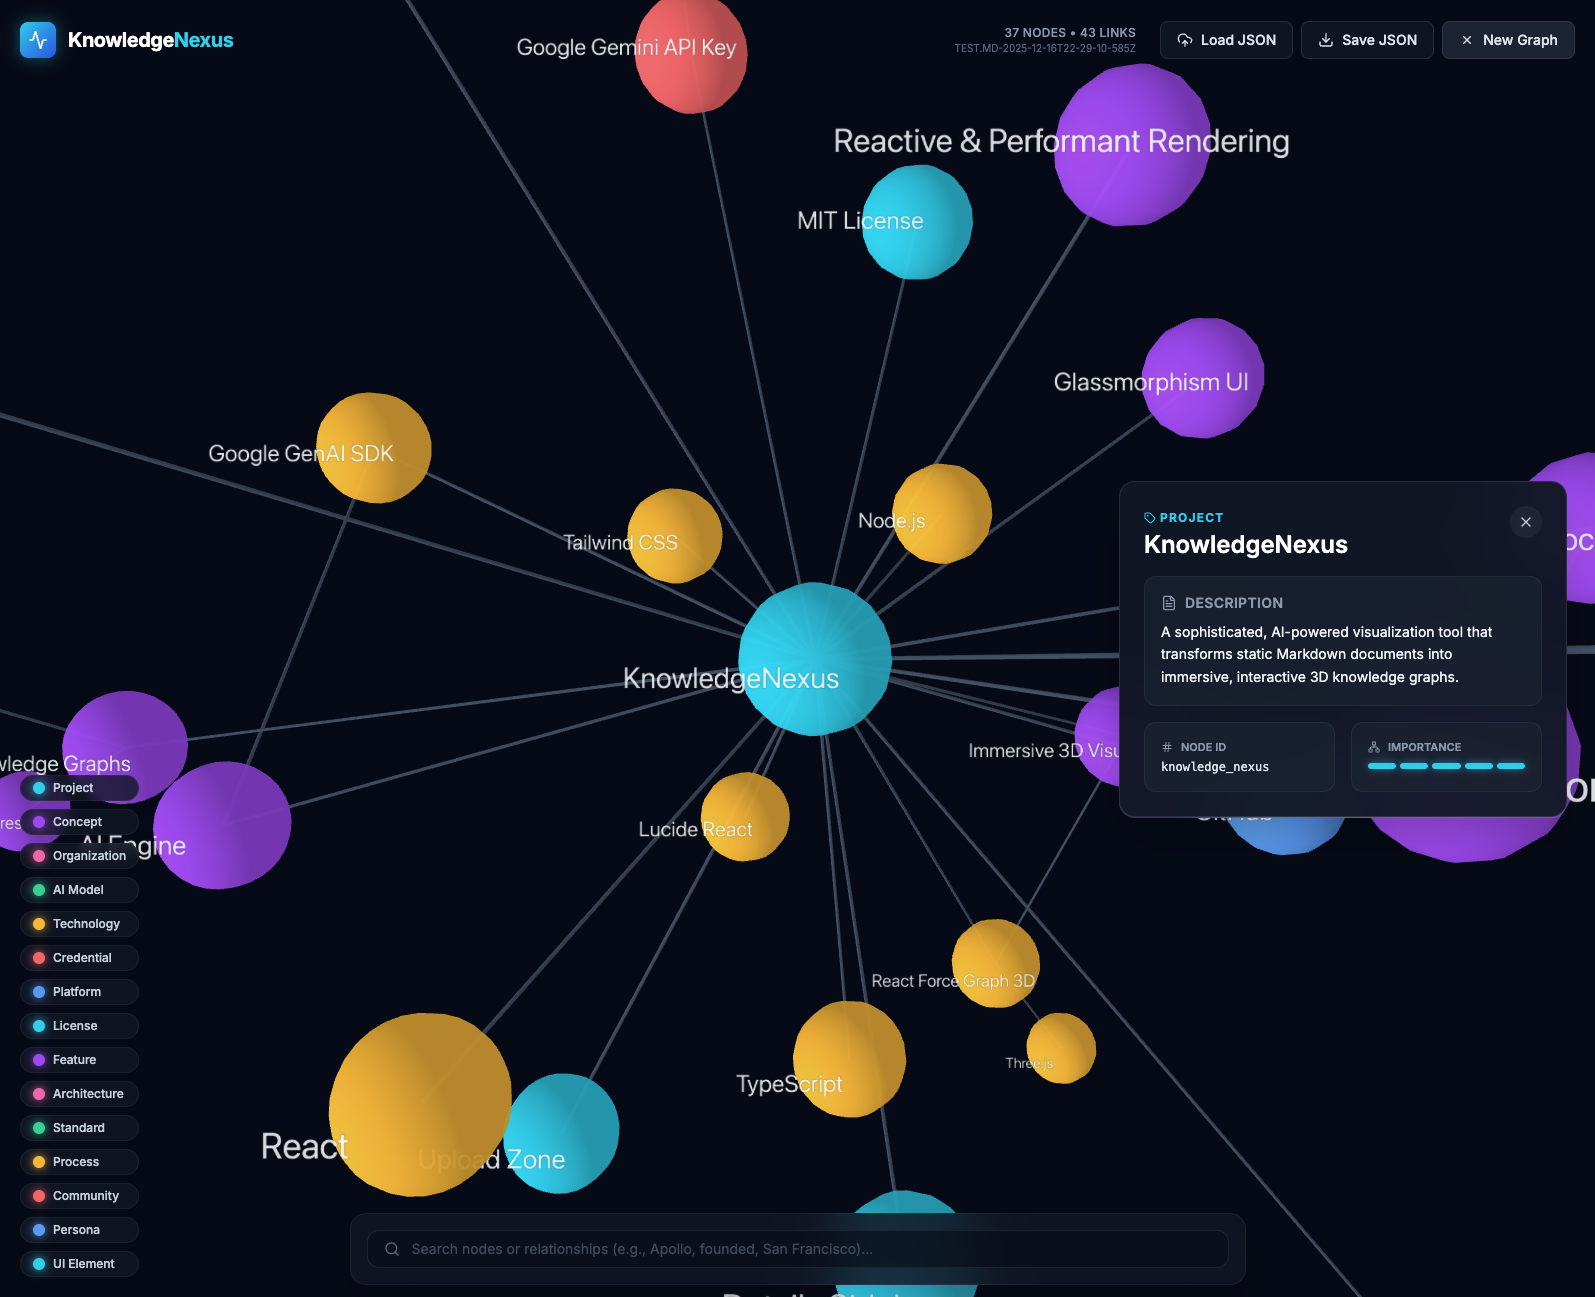
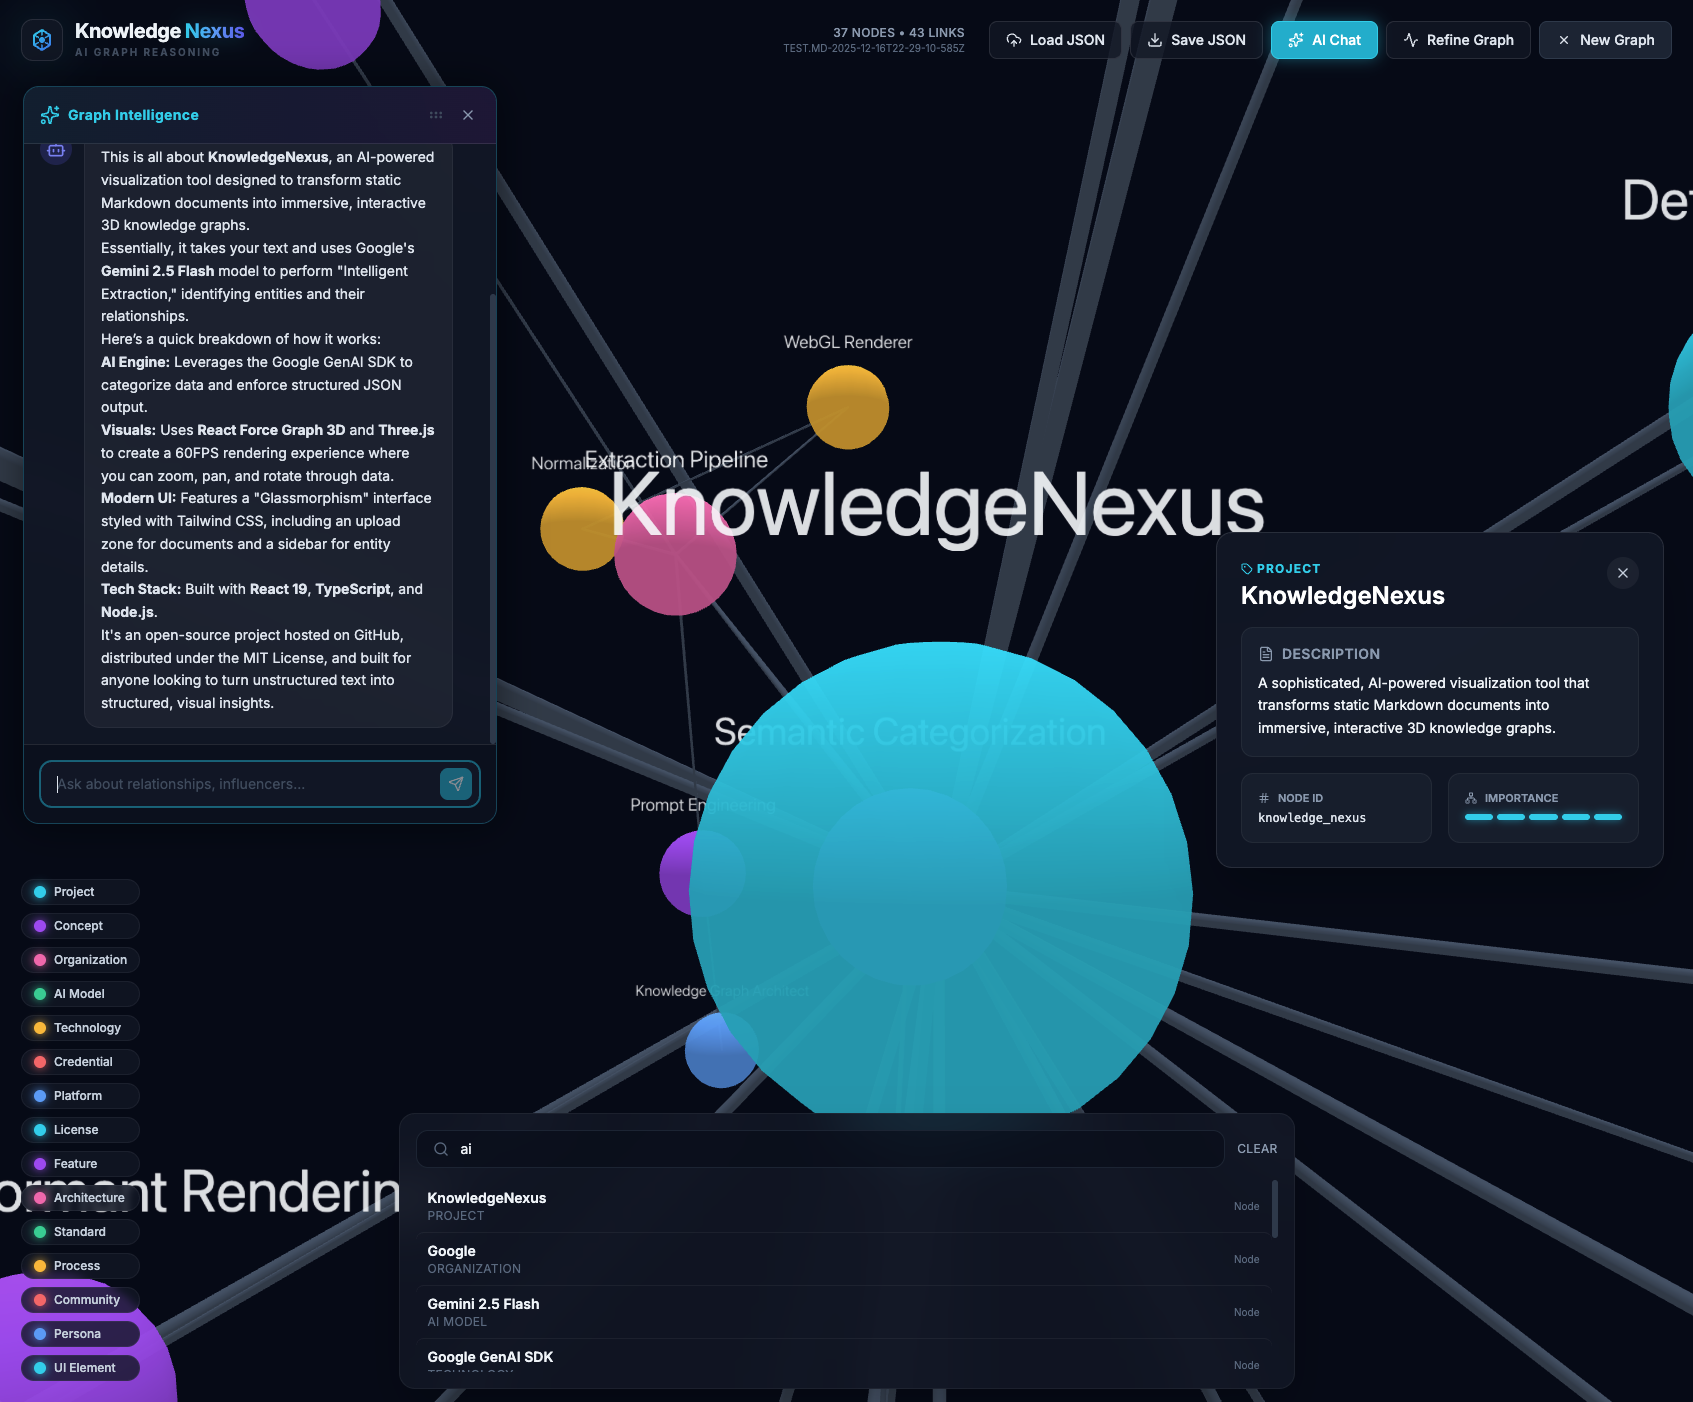
Patches from automated code-review, updated screenshot.

diff --git a/App.tsx b/App.tsx
@@ -175,8 +175,7 @@ const App: React.FC = () => {
     } catch (e) {
       console.error(e);
       triggerToast('error', 'Unable to extract graph from the provided file.');
-      setAppState(AppState.IDLE);
-      setTimeout(() => setAppState(AppState.IDLE), 4000);
+      setAppState(AppState.ERROR);
     }
   };
 
@@ -200,10 +199,17 @@ const App: React.FC = () => {
       after: null,
     });
 
+    let refiningTimeout: ReturnType<typeof setTimeout> | null = null;
+
     try {
       // Transition to refining state shortly after
-      setTimeout(() => {
-        setRefinementModal(prev => ({ ...prev, state: 'REFINING' }));
+      refiningTimeout = setTimeout(() => {
+        setRefinementModal(prev => {
+          if (prev.state === 'PREPARING') {
+            return { ...prev, state: 'REFINING' };
+          }
+          return prev;
+        });
       }, 800);
 
       const result = await GraphExpertSystem.unifyGraph(graphData);
@@ -217,7 +223,15 @@ const App: React.FC = () => {
 
       if (result.addedLinksCount > 0) {
         setGraphData(result.unifiedData);
+        // Issue 4: Node/link counters never update after refinement
+        setStats(prev => prev ? {
+          ...prev,
+          nodeCount: result.unifiedData.nodes.length,
+          linkCount: result.unifiedData.links.length,
+        } : null);
       }
+
+      if (refiningTimeout) clearTimeout(refiningTimeout);
 
       setRefinementModal(prev => ({
         ...prev,
@@ -226,6 +240,7 @@ const App: React.FC = () => {
       }));
 
     } catch (error) {
+      if (refiningTimeout) clearTimeout(refiningTimeout);
       console.error('Refinement failed', error);
       triggerToast('error', 'Failed to refine the graph.');
       setRefinementModal(prev => ({ ...prev, isOpen: false }));
@@ -335,13 +350,32 @@ const App: React.FC = () => {
 
       {/* Navigation Header */}
       <nav className="absolute top-0 left-0 right-0 z-30 p-6 flex justify-between items-center pointer-events-none">
-        <div className="flex items-center space-x-3 pointer-events-auto">
-          <div className="bg-gradient-to-br from-cyan-400 to-blue-600 p-2 rounded-lg shadow-[0_0_15px_rgba(34,211,238,0.4)]">
-            <Activity className="w-5 h-5 text-white" />
+        <div className="flex items-center space-x-3 pointer-events-auto group">
+          <div className="relative">
+            <div className="absolute inset-0 bg-cyan-500/20 blur-xl rounded-full group-hover:bg-cyan-500/40 transition-all duration-500" />
+            <div className="relative bg-slate-900/80 backdrop-blur-xl border border-white/10 p-2 rounded-xl shadow-2xl transition-transform duration-500 group-hover:scale-110 group-hover:rotate-3">
+              <svg width="24" height="24" viewBox="0 0 24 24" fill="none" xmlns="http://www.w3.org/2000/svg" className="w-6 h-6">
+                <path d="M12 2L4 7V17L12 22L20 17V7L12 2Z" stroke="url(#logo-grad)" strokeWidth="2" strokeLinecap="round" strokeLinejoin="round" />
+                <circle cx="12" cy="12" r="3" fill="url(#logo-grad)" />
+                <path d="M12 2V7M12 22V17M4 7L8.5 9.5M20 7L15.5 9.5M4 17L8.5 14.5M20 17L15.5 14.5" stroke="url(#logo-grad)" strokeWidth="1.5" strokeLinecap="round" />
+                <defs>
+                  <linearGradient id="logo-grad" x1="4" y1="2" x2="20" y2="22" gradientUnits="userSpaceOnUse">
+                    <stop stopColor="#22d3ee" />
+                    <stop offset="1" stopColor="#3b82f6" />
+                  </linearGradient>
+                </defs>
+              </svg>
+            </div>
           </div>
-          <h1 className="text-xl font-bold tracking-tight text-white">
-            Knowledge<span className="text-cyan-400">Nexus</span>
-          </h1>
+          <div className="flex flex-col">
+            <h1 className="text-xl font-black tracking-tight flex items-center leading-none">
+              <span className="text-slate-100">Knowledge</span>
+              <span className="bg-clip-text text-transparent bg-gradient-to-r from-cyan-400 via-blue-400 to-indigo-500 ml-1 drop-shadow-[0_0_10px_rgba(34,211,238,0.3)]">Nexus</span>
+            </h1>
+            <span className="text-[10px] text-slate-500 font-bold uppercase tracking-[0.2em] mt-1 opacity-70 group-hover:opacity-100 group-hover:text-cyan-400 transition-all duration-300">
+              AI Graph Reasoning
+            </span>
+          </div>
         </div>
 
         <div className="flex items-center space-x-4 pointer-events-auto">

diff --git a/services/graphOptimizerService.ts b/services/graphOptimizerService.ts
@@ -108,24 +108,39 @@ export class GraphExpertSystem {
             `${getNodeId(l.source)}|${getNodeId(l.target)}|${l.relationship}`
         ));
 
+        const nodeIds = new Set(data.nodes.map(n => n.id));
         const finalLinks = [...data.links];
         let addedCount = 0;
 
         newLinks.forEach(link => {
-            const key = `${link.source}|${link.target}|${link.relationship}`;
+            const sourceId = getNodeId(link.source);
+            const targetId = getNodeId(link.target);
+
+            // Issue 6: AI-proposed links aren’t validated against existing nodes
+            if (!nodeIds.has(sourceId) || !nodeIds.has(targetId)) {
+                console.warn(`Gemini proposed an invalid link: ${sourceId} -> ${targetId}. Skipping.`);
+                return;
+            }
+
+            const key = `${sourceId}|${targetId}|${link.relationship}`;
             if (!existingLinkKeys.has(key)) {
                 finalLinks.push(link);
                 addedCount++;
             }
         });
 
+        const unifiedData = {
+            ...data,
+            links: finalLinks
+        };
+
+        // Issue 5: Cluster totals reported post-refinement are stale
+        const finalClusters = this.findDisconnectedComponents(unifiedData);
+
         return {
-            unifiedData: {
-                ...data,
-                links: finalLinks
-            },
+            unifiedData,
             addedLinksCount: addedCount,
-            clustersCount: clusters.length,
+            clustersCount: finalClusters.length,
             validation
         };
     }

diff --git a/services/geminiService.ts b/services/geminiService.ts
@@ -1,5 +1,6 @@
 import { GoogleGenAI, Type } from "@google/genai";
 import { GraphData, GraphLink } from "../types";
+import { getNodeId } from "../utils/graph";
 
 const ai = new GoogleGenAI({ apiKey: process.env.API_KEY });
 
@@ -103,7 +104,7 @@ export const chatWithGraph = async (message: string, graphData: GraphData): Prom
   ).join('\n');
 
   const linksContext = graphData.links.map(l =>
-    `${l.source}->${l.target}|${l.relationship}`
+    `${getNodeId(l.source)}->${getNodeId(l.target)}|${l.relationship}`
   ).join('\n');
 
   // We move the heavyweight context to the user message to avoid system instruction limits

diff --git a/AGENTS.md b/AGENTS.md
@@ -1,23 +1,49 @@
 # Repository Guidelines
 
-## Project Structure & Module Organization
-The app is a Vite React + TypeScript UI rooted at `index.tsx`, which mounts `App.tsx`. Shared widgets (UploadZone, Sidebar, Graph3D, AnalysisChat) live in `components/`, while API helpers stay under `services/` such as `services/geminiService.ts` and the `services/graphOptimizerService.ts`. Update `types.ts` before touching UI state, and keep entry/config files (`index.html`, `vite.config.ts`, `tsconfig.json`, `metadata.json`) minimal. Add new modules next to their peers (e.g., `components/InsightsPanel.tsx`) and keep related assets in the same folder to preserve the flat layout.
+## Architecture & Layout
+- The app is a Vite + React 19 + TypeScript UI. `index.tsx` mounts `App.tsx`, while `index.html` stays minimal and loads Tailwind via CDN plus an import map. `vite.config.ts` binds the dev server to `http://localhost:3000` (`host: 0.0.0.0`) and injects the Gemini key into `process.env`.
+- `App.tsx` orchestrates `AppState` (`IDLE → PARSING → VISUALIZING → ERROR`), toast notifications, search/highlight state, JSON import/export, Graph Expert refinement, and the floating AI chat. Keep new UI derived from `GraphData` + `ExtractionStats` and leave side effects inside hooks.
+- Components live under `components/` and the folder stays flat: `UploadZone`, `Graph3D`, `Sidebar`, `AnalysisChat`, and `RefinementModal`. Add peers beside them (e.g., `components/NewPanel.tsx`) and colocate assets. Services stay under `services/`, shared helpers under `utils/`, and all shared contracts inside `types.ts`.
 
-## Build, Test, and Development Commands
-- `npm install` — installs dependencies once per checkout.
-- `npm run dev` — launches the Vite dev server on `http://localhost:5173` with hot reload.
-- `npm run build` — emits the optimized `dist/` bundle for release validation.
-- `npm run preview` — serves `dist/` locally to spot deployment-only bugs.
-- `npx vitest run --coverage` — run after adding Vitest to block regressions in flows like `extractGraphFromMarkdown`.
+## Component Responsibilities
+- `UploadZone.tsx` accepts `.md/.markdown/.txt`, maintains `dragActive` + `error` state, and funnels file text to `onFileLoaded`. Preserve the validation toast and `isLoading` animations when extending it.
+- `Graph3D.tsx` wraps `react-force-graph-3d`, caches `SpriteText` labels (see `global.d.ts`), zooms new graphs into view, and handles highlight/focus logic via the `highlightedNodeIds`/`highlightedLinkKeys` Sets from `App.tsx`. Dispose SpriteText materials when nodes vanish to avoid GPU leaks.
+- `Sidebar.tsx` renders metadata for the selected node (description, ID, importance meter) and uses pointer-events rules so the rest of the canvas remains interactive.
+- `AnalysisChat.tsx` is a draggable/resizable chat window that streams prompts to `chatWithGraph`. Model replies are rendered with `react-markdown` and must preserve history in `App.tsx` to handle resets and session persistence.
+- `RefinementModal.tsx` mirrors the `GraphExpertSystem` lifecycle (`PREPARING`, `REFINING`, `COMPLETED`) and compares `beforeStats` vs `afterStats`. When closing it, always go through the `refinementModal` state setter so App state stays consistent.
+- `App.tsx` manages file ingestion, calls `extractGraphFromMarkdown`, normalizes data, handles JSON importing via `isGraphDataShape`, runs graph refinement through the expert system, and exports snapshots via `createGraphExportSnapshot`. Keep helper functions like `resetQueryState`, `handleResultSelect`, and `triggerToast` intact whenever you extend flows.
 
-## Coding Style & Naming Conventions
-Embrace TypeScript strictness: type every prop and hook, reuse enums from `types.ts`, and avoid `any`. Components and files use PascalCase (`Graph3D.tsx`), while functions, variables, and state setters use camelCase. Keep JSX readable with two-space indentation and concise utility-class strings, and run Prettier/ESLint locally before submitting.
+## Services & Data Flow
+- `services/geminiService.ts` is the only file that calls Google GenAI. `extractGraphFromMarkdown` sends Markdown, enforces the response schema, maps `importance` → `val`, and biases Gemini toward ≥50 nodes. `chatWithGraph` compresses current nodes/links into context strings for AI Q&A, and `findBridgesBetweenClusters` returns bridging `GraphLink`s as JSON.
+- `services/graphOptimizerService.ts` exports `GraphExpertSystem`, which validates links, finds disconnected clusters via union-find, and merges Gemini-proposed links without duplicating existing edges. Keep it framework-agnostic so it can be unit-tested.
 
-## Testing Guidelines
-Add Vitest with React Testing Library. Store specs as `ComponentName.test.tsx` next to each component or in a local `__tests__/` folder. Snapshot Graph3D and Sidebar, verify `AnalysisChat` persistence and Markdown rendering, mock Gemini responses to verify `services/geminiService.ts`, and add integration smoke tests that assert `App.tsx` transitions through `AppState.IDLE → PARSING → VISUALIZING`. Target ≥80% coverage for services and critical hooks, and run `npx vitest run --coverage` before every PR. Note: Mocking should account for the new `thinking` field in responses if strictly typed.
+## Types, Utilities & Shared Contracts
+- `types.ts` defines `GraphNode`, `GraphLink`, `GraphData`, `AppState`, and `ExtractionStats`. Update it before touching components/services and remember that `GraphLink.source/target` can be `string` or `GraphNode` because `react-force-graph-3d` mutates the values.
+- `utils/graph.ts` centralizes helpers: `getNodeId`, `buildLinkKey`, `normalizeGraphPayload`, `createGraphExportSnapshot`, and `isGraphDataShape`. Always run inbound GraphData through `normalizeGraphPayload` before storing it, and rely on `buildLinkKey` when comparing links (query highlights, refinement results, etc.).
+- `global.d.ts` adds `three-spritetext` typings for the custom label objects. Update this declaration if Sprite props change so TS keeps compiling.
+
+## Build, Scripts & Tooling
+- `npm install` — install dependencies once per checkout.
+- `npm run dev` — Vite dev server on `http://localhost:3000` (hot reload). Expects `GEMINI_API_KEY`/`API_KEY` defined via `.env`, `.env.local`, or shell.
+- `npm run build` — produces the production bundle in `dist/`.
+- `npm run preview` — serves the built bundle for deployment checks.
+- Tests are not wired yet; after adding Vitest + React Testing Library run `npx vitest run --coverage` locally before submitting.
+- Tailwind comes from the CDN in `index.html`. Avoid adding PostCSS/Tailwind config unless you are ready to rework entry files.
+
+## Coding Style & Naming
+- Embrace TypeScript strictness: type every prop/hook, avoid `any`, and reuse enums/interfaces from `types.ts`. Components/files use PascalCase, while functions, hooks, and setters stay camelCase. JSX uses two-space indentation and concise Tailwind utility strings.
+- Prefer derived state plus memoized helpers over duplicative variables. When working with Sets (`highlightedNodeIds`, `highlightedLinkKeys`), always create new instances rather than mutating in place to keep React re-renders predictable.
+- Entry/config files (`index.html`, `index.tsx`, `vite.config.ts`, `tsconfig.json`, `metadata.json`) should stay minimal. Use the `@` alias (root) set in `tsconfig.json`/`vite.config.ts` when useful.
+
+## Testing Expectations
+- Standard: Vitest + React Testing Library. Place specs next to their modules (`Graph3D.test.tsx`) or in local `__tests__/` folders.
+- Snapshot complex visuals (Graph3D, Sidebar), test search/query transitions in `App.tsx`, ensure `AnalysisChat` preserves history and renders Markdown, and mock `@google/genai` when covering `extractGraphFromMarkdown`, `chatWithGraph`, and `findBridgesBetweenClusters`.
+- Unit-test `GraphExpertSystem`: validation should flag broken links, union-find should produce clusters, and `unifyGraph` must dedupe Gemini-proposed links. Target ≥80% coverage for services and critical hooks before a PR.
+
+## Security & Configuration
+- Gemini access requires `process.env.API_KEY` (and mirrored `process.env.GEMINI_API_KEY`). Provide `GEMINI_API_KEY` in your environment; never commit API keys. Rotate per environment and redact sensitive payloads when logging (graph descriptions often contain private data).
+- Graph JSON imports should be validated with `isGraphDataShape` before touching state. When logging normalization warnings, keep them high-level (number of dropped links) rather than dumping entire node data.
 
 ## Commit & Pull Request Guidelines
-The repo currently lacks recorded Git history, so adopt Conventional Commit headers (`feat:`, `fix:`, `chore:`) followed by an imperative sentence under 72 characters and optional wrapped body details. Each PR should link its issue, outline UX impacts, list verification steps (`npm run dev`, `npx vitest run` output), and attach screenshots or clips whenever graph visuals change.
-
-## Security & Configuration Tips
-`services/geminiService.ts` requires `process.env.API_KEY`. Configure it via `.env.local` or your shell profile, never commit keys, rotate per environment, and redact Gemini payloads in logs because entity text often contains sensitive content.
+- The repo has no recorded history, so start with Conventional Commit headers (`feat:`, `fix:`, `chore:`) and imperative subjects <72 chars.
+- Every PR should link to its issue, describe UX impacts, provide verification steps (`npm run dev`, `npm run build`, `npx vitest run --coverage` when it exists), and attach screenshots or clips whenever visual output changes (e.g., Graph3D tweaks, new modals).
